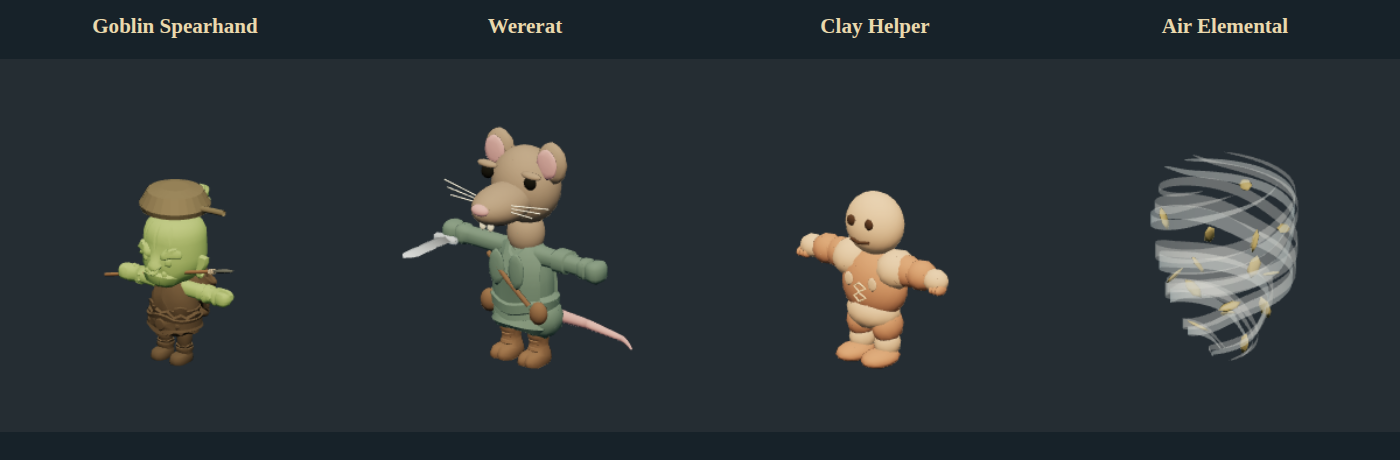
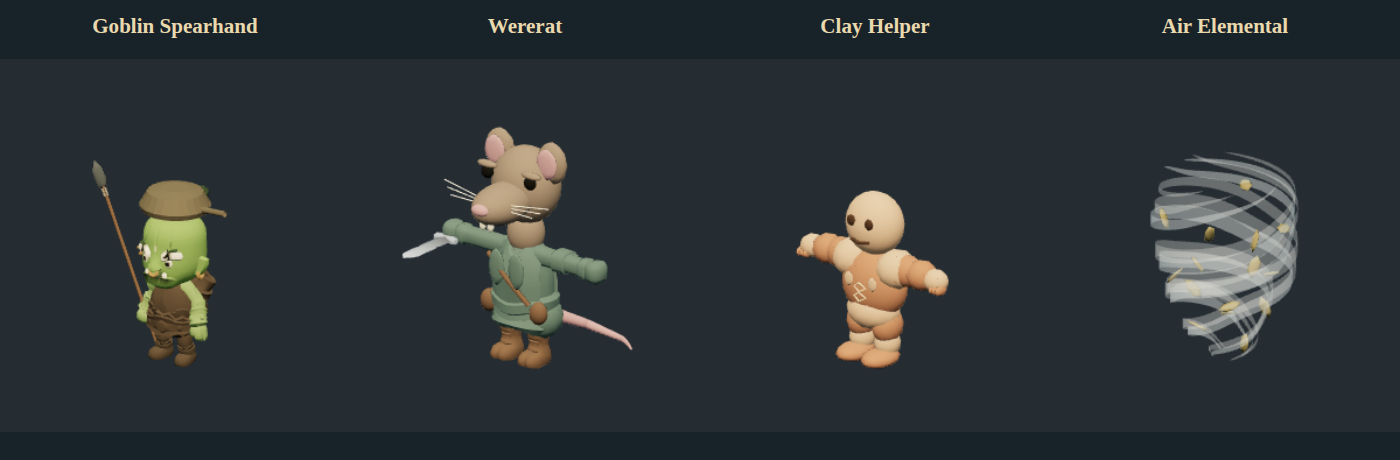
Restore contrast in existing goblin facial features (#153)

diff --git a/docs/work-progress/handoffs/2026-11-10-goblin-face-contrast.md b/docs/work-progress/handoffs/2026-11-10-goblin-face-contrast.md
@@ -1,0 +1,11 @@
+# November 10 — Goblin facial contrast and staged art direction
+
+Branch `codex/goblin-face-contrast`, base `c9752afb0ace0af32238df8547759440bde1fd88`. Bruce accepted the four pilot models but found the goblin face too monotone and explicitly requested simple recoloring of eyes/mouth/etc. He also endorsed decent recognizable roster coverage first, with later high-capability refinement.
+
+Added a targeted vertex-palette pass on cloned existing Orc Raider goblin heads: eye whites/pupils, brows, mouth, tusks and bronze jewelry. No new facial geometry, GLB, textures, rig, weights or gameplay changes. Other Orc Raider goblin variants share the correction; boss/Orc Brute and non-goblin casts are unchanged. Textured heads bypass this pass. Owned geometry/material disposal stays on the existing instance path.
+
+Close-up/reference captures inspected; local directory build refreshed; muted exact-launcher pilot pose/skin/save/sandbox regression passes in `/tmp/fld-goblin-face-native.log`. Model-only preview updated in `art/exports/creatures/`; full comparison remains ignored under `test-results/goblin-face`. No new cosmetic-only unit tests; repository CI still exercises the source build/rules. No public release or system-package replacement.
+
+First preview was too dark around the eyes; adjusted the original palette/position regions to retain eye whites without adding overlays. Existing blend/source GLBs and recorded hashes are unchanged. Do not confuse a new colour attribute with new vertices.
+
+Next: continue recognizable models for failed casts, then refine anatomy/materials/detail with stronger guidance and actual visual/animation acceptance. This is the recorded direction, not a guarantee that model tier alone produces high-end art. Preserve original editable sources and Bruce's quiet local-testing preference. Verify PR/remote merge state before treating this checkpoint as synced.

diff --git a/docs/creature-model-pilots.md b/docs/creature-model-pilots.md
@@ -59,3 +59,9 @@ AUDIT_OUT=test-results/creature-model-pilots node scripts/creature-fit-capture.m
 The local `comparison.html` includes book/front/rear views and fixed review scores. `game-{idle,walk,attack,hit,death}.png` captures the actual-game fixture. These QA outputs are ignored; the model-only lineup and authored sources travel in Git. Source-book illustration rights remain unchanged.
 
 A bounded read-only DeepSeek worker reviewed provenance, the inspector, pose check and report. Its useful findings led to all-vertex/distinct-state checks, N/A weight metadata for unskinned assets and explicit material counts/measurement limits. It did not review art/images or independently rerun native QA; source test/security evidence lives in the main harness and logs, outside its four supplied files.
+
+## Facial-contrast follow-up
+
+Bruce accepted the first pilots but noted that the goblin's monochrome face hid its details. The existing untextured Orc Raider head now gets vertex colours for eye whites/pupils, brows, mouth, tusks and bronze nose/ear jewelry. No extra facial meshes or new GLB are added. The head geometry is cloned for instance ownership; original positions, UVs, skin weights, rig and source asset remain intact. Textured replacement heads bypass this palette pass. Other green Orc Raider goblin variants receive the same contrast; Orc Brute/boss and warband casts are outside this patch.
+
+Bruce approved a staged art direction: bring the roster to recognizable, playable models first, then revisit detail/anatomy/materials with a high-capability model. Preserve editable sources and verify each refinement visually and in motion rather than treating model capability as an automatic quality guarantee.

diff --git a/docs/work-progress/decisions.md b/docs/work-progress/decisions.md
@@ -59,3 +59,7 @@ Bruce completed the item-by-item discussion and approved strongest matching equi
 ## 2026-11-10 — Asset-production preparation and optional cloud generation
 
 Bruce requested Blender/useful tools, a DeepSeek worker and review of the proposed hybrid generation pipeline. Meshy was subsequently clarified as optional; defer its account, installation and paid generation. Use Blender/Rigify/MCP plus existing assets first. GPT remains the default design/integration model; DeepSeek is a separate authenticated Codex profile for bounded worker jobs, not a claimed built-in subagent model. Preserve credentials outside Git with helper-backed auth. Replace blanket geometry/transform cleanup with inspected, selective changes and require real deformation/render/export evidence. See the asset-production pipeline and repo skill for details. Blender must be open for interactive MCP calls; background scripts start their own instance.
+
+## 2026-11-10 — Recognizable roster first, refinement second
+
+Bruce accepted the first model pilots with a facial-contrast correction: recolor existing eye/mouth details rather than add geometry. Establish decent, recognizable, animated/equipped models across the roster, then return with high-capability guidance for deeper anatomy/material/detail refinement. Keep editable sources and validate improvements in-game. Broad coverage should not stall on finishing every small detail of the first four creatures.

diff --git a/docs/work-progress/current.md b/docs/work-progress/current.md
@@ -2,6 +2,12 @@
 
 Updated: 2026-11-10 (America/New_York).
 
+## Latest follow-up — goblin facial contrast
+
+Bruce accepted the first pilots except the monochrome goblin face. Existing eye/brow/mouth/tusk/jewelry geometry now has contrasting vertex colours, preserving the original source and rig with no added facial meshes. See the follow-up in [pilot report](../creature-model-pilots.md) and [handoff](handoffs/2026-11-10-goblin-face-contrast.md). The current launcher includes this change; local tests remain muted.
+
+Bruce approved recognizable/playable roster coverage first, then a high-capability detail-refinement pass. Continue that staged approach rather than over-polish only the first four.
+
 ## Latest work — first creature model pilots
 
 Bruce authorized updating models. Goblin Spearhand now has a spear/pan, Wererat has rat anatomy/tail/thief clothing, Clay Helper is a grounded clay humanoid, and Air Elemental is a hollow animated wind vortex. Original sources and game rules are untouched. See [pilot report](../creature-model-pilots.md), [provenance](../creature-pilots-provenance.json) and [handoff](handoffs/2026-11-10-creature-model-pilots.md). Pilot fit scores: 66/77/76/85 respectively, with explicit remaining art gaps; no claim of final art approval.
